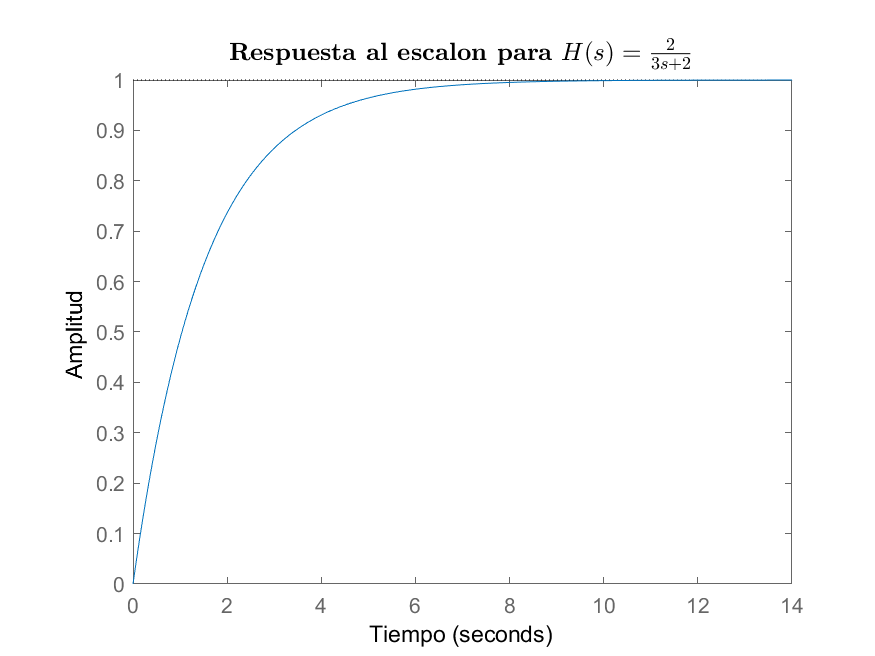
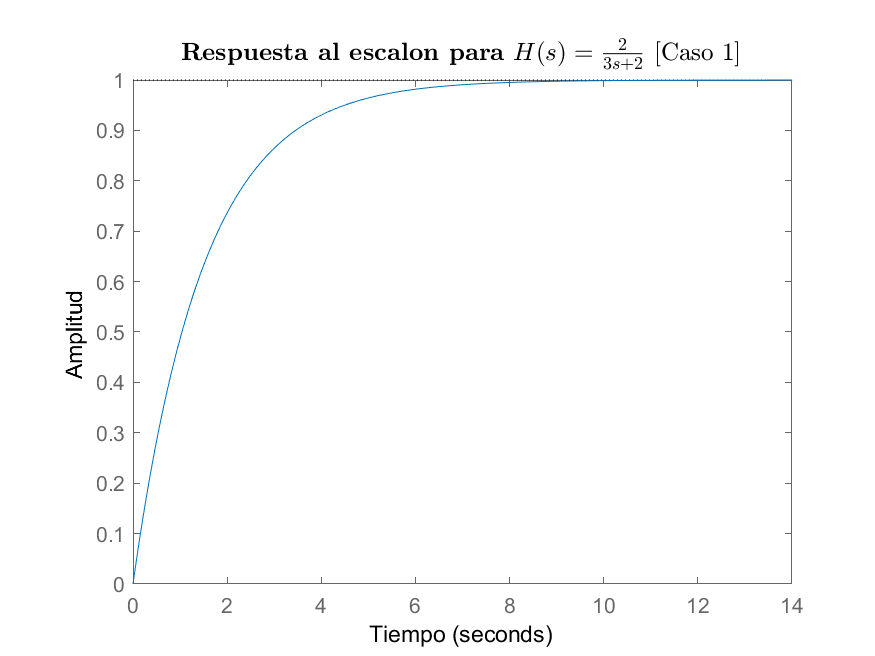
Finalización del Laboratorio 4
>> Se edita el programa 'parte2__1.m' y se renombra a 'parte2.m'
>> Se añaden gráficos resultantes para los sistemas involucrados en la 'parte2.m'
>> Se añaden y modifican comentarios de los programas.

Changed region(s): [[0.1851, 0.061, 0.8331, 0.122]]

diff --git a/Laboratorio 4 - Modelos de Estado/parte1__ft_a_me.m b/Laboratorio 4 - Modelos de Estado/parte1__ft_a_me.m
@@ -1,3 +1,4 @@
+clear all;
 % Laboratorio 3 - Modelacion y Simulacion
 % << Modelos de Estado >>
 %
@@ -34,6 +35,8 @@ C = [1 0];                          % Coeficientes de variables de estado (salid
 D = 0;                              % Coeficientes de entradas (salida)
 
 % Resultados finales
+fprintf('\n===============================================\n');
+fprintf('== Matrices del Modelo de Espacio de Estados ==\n');
 display(A);
 display(B);
 display(C);

diff --git a/Laboratorio 4 - Modelos de Estado/parte1__me_a_ft.m b/Laboratorio 4 - Modelos de Estado/parte1__me_a_ft.m
@@ -1,3 +1,4 @@
+clear all;
 % Laboratorio 3 - Modelacion y Simulacion
 % << Modelos de Estado >>
 %
